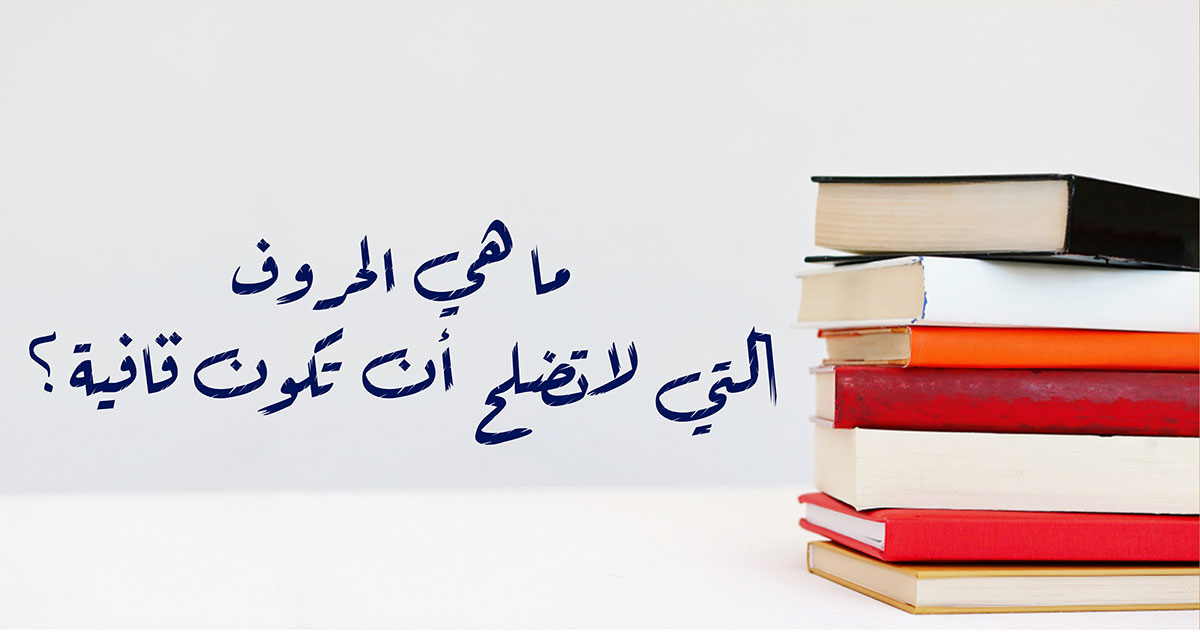
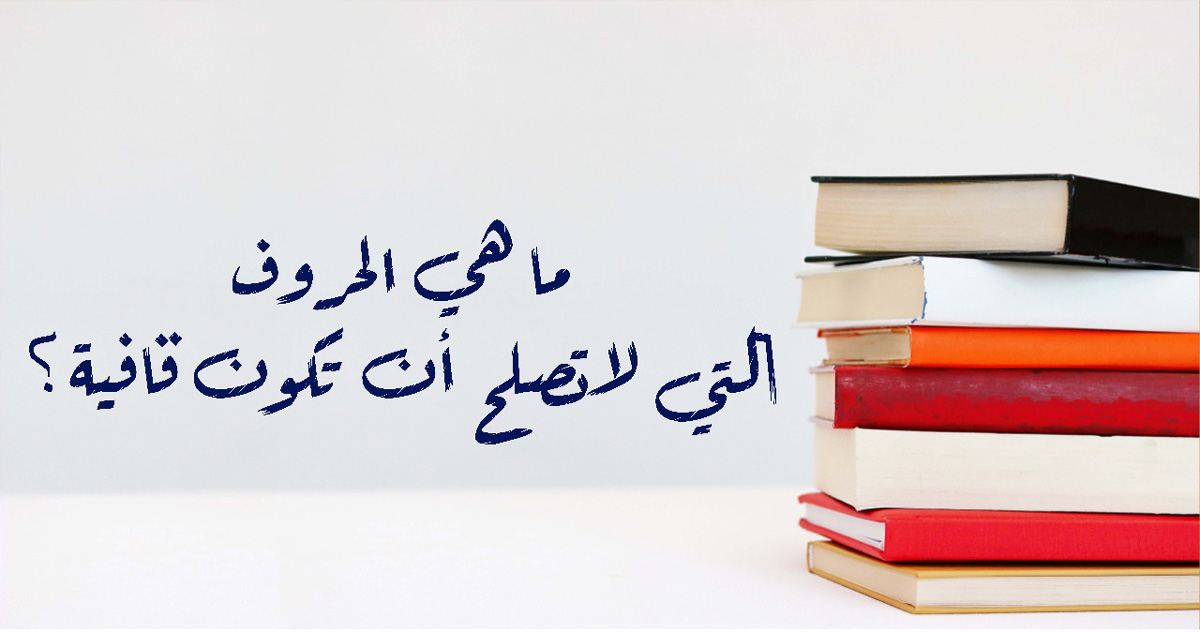
Last finish

diff --git a/css/style.css b/css/style.css
@@ -1,1 +1,1 @@
-@font-face{font-family:"tharwat";src:url("../assets/fonts/textFonts/THARWATEMARARUQAA.ttf")}@font-face{font-family:"tharwat2";src:url("../assets/fonts/textFonts/THARWATEMARARUQAALIGHT2.ttf")}@font-face{font-family:"verdana";src:url("../assets/fonts/textFonts/29LTZARIDSLABMEDIUM.TTF")}body{font-family:"verdana",sans-serif;direction:rtl}.wrap-fullpage{overflow:hidden}.ff-tharwat{font-family:"tharwat2"}.rounded-12px{border-radius:12px}.border-gray{border-color:#c3c3c3 !important}.adver-box{overflow:hidden;width:100%;display:block;border-color:#c3c3c3 !important}.adver-box.side-adv{max-height:850px}.search-box{min-height:280px;display:-webkit-box;display:-ms-flexbox;display:flex;-webkit-box-align:center;-ms-flex-align:center;align-items:center;-webkit-box-pack:center;-ms-flex-pack:center;justify-content:center;-webkit-box-orient:vertical;-webkit-box-direction:normal;-ms-flex-direction:column;flex-direction:column;border-color:#c3c3c3 !important}.search-box h1{font-family:"tharwat2";font-size:45px}.search-box .input-group{max-width:700px}.search-box .form-wrap{max-width:70%}.search-box .form-wrap input,.search-box .form-wrap select{border-color:#c3c3c3 !important;font-size:18px}.search-box .form-wrap input::-webkit-input-placeholder, .search-box .form-wrap select::-webkit-input-placeholder{font-size:18px;color:#898f9c}.search-box .form-wrap input::-moz-placeholder, .search-box .form-wrap select::-moz-placeholder{font-size:18px;color:#898f9c}.search-box .form-wrap input:-ms-input-placeholder, .search-box .form-wrap select:-ms-input-placeholder{font-size:18px;color:#898f9c}.search-box .form-wrap input::-ms-input-placeholder, .search-box .form-wrap select::-ms-input-placeholder{font-size:18px;color:#898f9c}.search-box .form-wrap input::placeholder,.search-box .form-wrap select::placeholder{font-size:18px;color:#898f9c}.search-box .form-wrap #searchTypeSelect{width:270px}.search-box .form-wrap .numInput{width:55px;text-align:center}.navbar .navbar-brand{color:#f5f5f5;font-family:"tharwat";font-size:60px}.navbar .nav-item .nav-link{color:#f5f5f5 !important;font-size:26px;padding:.5rem 2rem;font-weight:500}.navbar .nav-item .nav-link.active,.navbar .nav-item .nav-link:hover{background-color:#7e7e7e}.body-content{gap:1.25rem;display:grid}.body-content .buttons-list .btn{font-weight:bold}.body-content .buttons-list .btn:hover{background-color:#7e7e7e}.body-content .comment-wrap{border:1px solid #c3c3c3}.body-content .comment-wrap .comment-header{background-color:#ebebeb;border-bottom:1px solid #c3c3c3}.body-content .comment-wrap .comment-header img{margin-top:5px}.body-content .comment-wrap .comment-content textarea,.body-content .comment-wrap .comment-content input{font-size:20px}.body-content .comment-wrap .comment-content textarea::-webkit-input-placeholder, .body-content .comment-wrap .comment-content input::-webkit-input-placeholder{color:#898f9c;font-size:20px}.body-content .comment-wrap .comment-content textarea::-moz-placeholder, .body-content .comment-wrap .comment-content input::-moz-placeholder{color:#898f9c;font-size:20px}.body-content .comment-wrap .comment-content textarea:-ms-input-placeholder, .body-content .comment-wrap .comment-content input:-ms-input-placeholder{color:#898f9c;font-size:20px}.body-content .comment-wrap .comment-content textarea::-ms-input-placeholder, .body-content .comment-wrap .comment-content input::-ms-input-placeholder{color:#898f9c;font-size:20px}.body-content .comment-wrap .comment-content textarea::placeholder,.body-content .comment-wrap .comment-content input::placeholder{color:#898f9c;font-size:20px}.body-content .comment-wrap .comment-content #username_comment{width:250px}.body-content .comment-wrap .comment-content textarea{height:250px;resize:none}.body-content .comment-wrap .comment-content.comments-list .comment-item{margin-bottom:0.625rem;padding-bottom:0.625rem;border-bottom:1px solid #dedede}.body-content .comment-wrap .comment-content.comments-list .comment-item p{line-height:24px}.body-content .comment-wrap .comment-content.comments-list .comment-item:last-child{margin-bottom:0;padding-bottom:0;border-bottom-width:0}.body-content .comment-wrap .btn:hover{color:#fff;background-color:#7e7e7e}.body-content .w-400{width:400px}.body-content .addword-wrap{border:1px solid #c3c3c3}.body-content .addword-wrap .style-input,.body-content .addword-wrap button{font-size:18px}.body-content .addword-wrap .style-input{border-color:#c3c3c3 !important}.body-content .addword-wrap .style-input::-webkit-input-placeholder{font-size:18px;color:#898f9c}.body-content .addword-wrap .style-input::-moz-placeholder{font-size:18px;color:#898f9c}.body-content .addword-wrap .style-input:-ms-input-placeholder{font-size:18px;color:#898f9c}.body-content .addword-wrap .style-input::-ms-input-placeholder{font-size:18px;color:#898f9c}.body-content .addword-wrap .style-input::placeholder{font-size:18px;color:#898f9c}.body-content .addword-wrap #addmeaninginput{resize:none}.body-content .today-wisedom{border:1px solid #c3c3c3}.body-content .today-wisedom .wisedom-content{height:200px}.body-content .today-wisedom .wisedom-content blockquote{max-height:130px;overflow-y:auto}.body-content .bestwords,.body-content .beforelast-wrod{height:-webkit-fit-content;height:-moz-fit-content;height:fit-content;border:1px solid #c3c3c3}.body-content .bestwords .bestword-content{display:grid;gap:.5rem;grid-auto-rows:-webkit-min-content;grid-auto-rows:min-content;overflow-y:auto}.body-content .bestwords .bestword-content .preloader-filter{height:100%;min-height:748px}.body-content .bestwords .bestword-content .word-badge{height:-webkit-fit-content;height:-moz-fit-content;height:fit-content;background-color:#ebebeb;cursor:pointer;-webkit-transition:.2s;-o-transition:.2s;transition:.2s}.body-content .bestwords .bestword-content .word-badge:hover,.body-content .bestwords .bestword-content .word-badge.selected{background-color:#bad6d8}.body-content .beforelast-wrod .beforelast-wrod-content{display:grid;grid-template-columns:repeat(6, 1fr);gap:.5rem}.body-content .beforelast-wrod .beforelast-wrod-content .letter-badge{background-color:#dfe3ee;color:#898f9c;font-family:"tharwat2";font-size:28px;font-weight:bolder;cursor:pointer;-webkit-transition:0.2s;-o-transition:0.2s;transition:0.2s;padding-left:0;padding-right:0;border:1px solid #c3c3c3}.body-content .beforelast-wrod .beforelast-wrod-content .letter-badge .underline-letter{display:block;margin-top:-6px}.body-content .beforelast-wrod .beforelast-wrod-content .letter-badge:hover{background-color:#d8ddea}.body-content .meaning-article{margin-bottom:1.25rem}.body-content .meaning-article .fs-21px{font-size:21px}.body-content .meaning-article:last-child{margin-bottom:0}.contactus-wrap{background-color:#f2f2f6;max-width:850px}.contactus-wrap .title{margin-top:-6px}.contactus-wrap .contactus-form input,.contactus-wrap .contactus-form textarea,.contactus-wrap .contactus-form select{font-size:27px}.contactus-wrap .contactus-form input::-webkit-input-placeholder, .contactus-wrap .contactus-form textarea::-webkit-input-placeholder, .contactus-wrap .contactus-form select::-webkit-input-placeholder{color:#898f9c;font-size:27px}.contactus-wrap .contactus-form input::-moz-placeholder, .contactus-wrap .contactus-form textarea::-moz-placeholder, .contactus-wrap .contactus-form select::-moz-placeholder{color:#898f9c;font-size:27px}.contactus-wrap .contactus-form input:-ms-input-placeholder, .contactus-wrap .contactus-form textarea:-ms-input-placeholder, .contactus-wrap .contactus-form select:-ms-input-placeholder{color:#898f9c;font-size:27px}.contactus-wrap .contactus-form input::-ms-input-placeholder, .contactus-wrap .contactus-form textarea::-ms-input-placeholder, .contactus-wrap .contactus-form select::-ms-input-placeholder{color:#898f9c;font-size:27px}.contactus-wrap .contactus-form input::placeholder,.contactus-wrap .contactus-form textarea::placeholder,.contactus-wrap .contactus-form select::placeholder{color:#898f9c;font-size:27px}.contactus-wrap .contactus-form textarea{resize:none;height:350px}.contactus-wrap .contactus-form button{font-size:40px}.aboutus-section .box-1{height:400px;max-width:1000px}.aboutus-section .box-2{height:700px}.bestArticles .article-item{margin-bottom:.5rem}.bestArticles .article-item:last-child{margin-bottom:0}.bestArticles .article-item .article-thumimg{overflow:hidden;border-radius:12px}.bestArticles .article-item .article-thumimg img{width:100%;height:100%;-webkit-transition:1s;-o-transition:1s;transition:1s}.bestArticles .article-item:hover img{-webkit-transform:scale(1.2) rotate(2deg);-ms-transform:scale(1.2) rotate(2deg);transform:scale(1.2) rotate(2deg)}.bestArticles .article-item .morebtn:hover{background-color:#7e7e7e}.article p{text-align:justify}.article .article-img-cover{width:100%}footer{overflow:hidden}footer p.logo-text{font-family:"tharwat";font-size:60px}@media(min-width: 1920px){.bestArticles .article-thumimg{width:425px;height:385px}}@media(max-width: 1920px){.bestArticles .article-thumimg{width:325px;height:285px}}@media(min-width: 992px)and (max-width: 1410px){.bestArticles .article-wraper{-webkit-box-orient:vertical;-webkit-box-direction:normal;-ms-flex-direction:column;flex-direction:column}.bestArticles .article-wraper .article-thumimg{width:100%;height:285px}.bestword-content{height:453px !important}.comment-wrap{margin-top:-295px}}@media(min-width: 1410px){.buttons-list .btn{font-size:28px !important}.bestword-content{height:438px !important}.comment-wrap{margin-top:-293px}}@media(max-width: 992px){.words-box{-webkit-box-orient:vertical;-webkit-box-direction:normal;-ms-flex-direction:column;flex-direction:column}.words-box .beforelast-wrod{width:100%;-ms-flex-negative:1;flex-shrink:1}.body-content .w-400{width:100%}.body-content .bestword-content{height:453px}.bestArticles .article-thumimg{width:225px;height:185px}}@media(min-width: 768px)and (max-width: 992px){.body-content .sidebar{display:-webkit-box;display:-ms-flexbox;display:flex;gap:1.25rem}.body-content .sidebar .today-wisedom{-webkit-box-flex:1;-ms-flex-positive:1;flex-grow:1}.body-content .sidebar .adver-box.side-adv{width:40%}}@media(min-width: 768px){.navbar .nav-item .nav-link{margin-left:20px}.navbar .nav-item:last-child .nav-link{margin-left:0}}@media(min-width: 576px){.bestwords .bestword-content{grid-template-columns:repeat(auto-fill, minmax(150px, 1fr))}}@media(max-width: 576px){.navbar-brand,.ff-tharwat,footer .logo-text{position:relative}.navbar-brand,footer .logo-text{top:12px}.ff-tharwat{top:8px}.search-box .input-group .input-search::-webkit-input-placeholder{font-size:16px !important}.search-box .input-group .input-search::-moz-placeholder{font-size:16px !important}.search-box .input-group .input-search:-ms-input-placeholder{font-size:16px !important}.search-box .input-group .input-search::-ms-input-placeholder{font-size:16px !important}.search-box .input-group .input-search::placeholder{font-size:16px !important}.body-content .buttons-list .btn{font-size:16px}.body-content .bestwords .bestword-content{grid-template-columns:repeat(auto-fill, minmax(135px, 1fr))}.bestArticles .article-wraper{-webkit-box-orient:vertical;-webkit-box-direction:normal;-ms-flex-direction:column;flex-direction:column}.bestArticles .article-wraper .article-thumimg{width:100%;height:285px}}@media(max-width: 768px){.navbar .nav-item .nav-link{margin-bottom:10px}.navbar .nav-item:last-child .nav-link{margin-bottom:0}.article-img-cover{height:300px !important}.search-box #searchTypeSelect{width:100% !important}.search-box .search-btn{width:100%}}
+@font-face{font-family:"tharwat";src:url("../assets/fonts/textFonts/THARWATEMARARUQAA.ttf")}@font-face{font-family:"tharwat2";src:url("../assets/fonts/textFonts/THARWATEMARARUQAALIGHT2.ttf")}@font-face{font-family:"verdana";src:url("../assets/fonts/textFonts/29LTZARIDSLABMEDIUM.TTF")}body{font-family:"verdana",sans-serif;direction:rtl}.wrap-fullpage{overflow:hidden}.ff-tharwat{font-family:"tharwat2"}.rounded-12px{border-radius:12px}.border-gray{border-color:#c3c3c3 !important}.adver-box{overflow:hidden;width:100%;display:block;border-color:#c3c3c3 !important}.adver-box.side-adv{max-height:850px}.search-box{min-height:280px;display:-webkit-box;display:-ms-flexbox;display:flex;-webkit-box-align:center;-ms-flex-align:center;align-items:center;-webkit-box-pack:center;-ms-flex-pack:center;justify-content:center;-webkit-box-orient:vertical;-webkit-box-direction:normal;-ms-flex-direction:column;flex-direction:column;border-color:#c3c3c3 !important}.search-box h1{font-family:"tharwat2";font-size:45px}.search-box .input-group{max-width:700px}.search-box .form-wrap{max-width:70%}.search-box .form-wrap input,.search-box .form-wrap select{border-color:#c3c3c3 !important;font-size:18px}.search-box .form-wrap input::-webkit-input-placeholder, .search-box .form-wrap select::-webkit-input-placeholder{font-size:18px;color:#898f9c}.search-box .form-wrap input::-moz-placeholder, .search-box .form-wrap select::-moz-placeholder{font-size:18px;color:#898f9c}.search-box .form-wrap input:-ms-input-placeholder, .search-box .form-wrap select:-ms-input-placeholder{font-size:18px;color:#898f9c}.search-box .form-wrap input::-ms-input-placeholder, .search-box .form-wrap select::-ms-input-placeholder{font-size:18px;color:#898f9c}.search-box .form-wrap input::placeholder,.search-box .form-wrap select::placeholder{font-size:18px;color:#898f9c}.search-box .form-wrap #searchTypeSelect{width:270px}.search-box .form-wrap .numInput{width:55px;text-align:center}.navbar .navbar-brand{color:#f5f5f5;font-family:"tharwat";font-size:60px}.navbar .nav-item .nav-link{color:#f5f5f5 !important;font-size:26px;padding:.5rem 2rem;font-weight:500}.navbar .nav-item .nav-link.active,.navbar .nav-item .nav-link:hover{background-color:#7e7e7e}.body-content{gap:1.25rem;display:grid}.body-content .buttons-list .btn{font-weight:bold}.body-content .buttons-list .btn:hover{background-color:#7e7e7e}.body-content .comment-wrap{border:1px solid #c3c3c3}.body-content .comment-wrap .comment-header{background-color:#ebebeb;border-bottom:1px solid #c3c3c3}.body-content .comment-wrap .comment-header img{margin-top:5px}.body-content .comment-wrap .comment-content textarea,.body-content .comment-wrap .comment-content input{font-size:20px}.body-content .comment-wrap .comment-content textarea::-webkit-input-placeholder, .body-content .comment-wrap .comment-content input::-webkit-input-placeholder{color:#898f9c;font-size:20px}.body-content .comment-wrap .comment-content textarea::-moz-placeholder, .body-content .comment-wrap .comment-content input::-moz-placeholder{color:#898f9c;font-size:20px}.body-content .comment-wrap .comment-content textarea:-ms-input-placeholder, .body-content .comment-wrap .comment-content input:-ms-input-placeholder{color:#898f9c;font-size:20px}.body-content .comment-wrap .comment-content textarea::-ms-input-placeholder, .body-content .comment-wrap .comment-content input::-ms-input-placeholder{color:#898f9c;font-size:20px}.body-content .comment-wrap .comment-content textarea::placeholder,.body-content .comment-wrap .comment-content input::placeholder{color:#898f9c;font-size:20px}.body-content .comment-wrap .comment-content #username_comment{width:250px}.body-content .comment-wrap .comment-content textarea{height:250px;resize:none}.body-content .comment-wrap .comment-content.comments-list .comment-item{margin-bottom:0.625rem;padding-bottom:0.625rem;border-bottom:1px solid #dedede}.body-content .comment-wrap .comment-content.comments-list .comment-item p{line-height:24px}.body-content .comment-wrap .comment-content.comments-list .comment-item:last-child{margin-bottom:0;padding-bottom:0;border-bottom-width:0}.body-content .comment-wrap .btn:hover{color:#fff;background-color:#7e7e7e}.body-content .w-400{width:400px}.body-content .addword-wrap{border:1px solid #c3c3c3}.body-content .addword-wrap .style-input,.body-content .addword-wrap button{font-size:18px}.body-content .addword-wrap .style-input{border-color:#c3c3c3 !important}.body-content .addword-wrap .style-input::-webkit-input-placeholder{font-size:18px;color:#898f9c}.body-content .addword-wrap .style-input::-moz-placeholder{font-size:18px;color:#898f9c}.body-content .addword-wrap .style-input:-ms-input-placeholder{font-size:18px;color:#898f9c}.body-content .addword-wrap .style-input::-ms-input-placeholder{font-size:18px;color:#898f9c}.body-content .addword-wrap .style-input::placeholder{font-size:18px;color:#898f9c}.body-content .addword-wrap #addmeaninginput{resize:none}.body-content .today-wisedom{border:1px solid #c3c3c3}.body-content .today-wisedom .wisedom-content{height:200px}.body-content .today-wisedom .wisedom-content blockquote{max-height:130px;overflow-y:auto}.body-content .bestwords,.body-content .beforelast-wrod{height:-webkit-fit-content;height:-moz-fit-content;height:fit-content;border:1px solid #c3c3c3}.body-content .bestwords .bestword-content{display:grid;gap:.5rem;grid-auto-rows:-webkit-min-content;grid-auto-rows:min-content;overflow-y:auto}.body-content .bestwords .bestword-content .preloader-filter{height:100%;min-height:748px}.body-content .bestwords .bestword-content .word-badge{height:-webkit-fit-content;height:-moz-fit-content;height:fit-content;background-color:#ebebeb;cursor:pointer;-webkit-transition:.2s;-o-transition:.2s;transition:.2s}.body-content .bestwords .bestword-content .word-badge:hover,.body-content .bestwords .bestword-content .word-badge.selected{background-color:#bad6d8}.body-content .beforelast-wrod .beforelast-wrod-content{display:grid;grid-template-columns:repeat(6, 1fr);gap:.5rem}.body-content .beforelast-wrod .beforelast-wrod-content .letter-badge{background-color:#dfe3ee;color:#898f9c;font-family:"tharwat2";font-size:28px;font-weight:bolder;cursor:pointer;-webkit-transition:0.2s;-o-transition:0.2s;transition:0.2s;padding-left:0;padding-right:0;border:1px solid #c3c3c3}.body-content .beforelast-wrod .beforelast-wrod-content .letter-badge .underline-letter{display:block;margin-top:-6px}.body-content .beforelast-wrod .beforelast-wrod-content .letter-badge:hover{background-color:#d8ddea}.body-content .meaning-article{margin-bottom:1.25rem}.body-content .meaning-article .fs-21px{font-size:21px}.body-content .meaning-article:last-child{margin-bottom:0}.contactus-wrap{background-color:#f2f2f6;max-width:850px}.contactus-wrap .title{margin-top:-6px}.contactus-wrap .contactus-form input,.contactus-wrap .contactus-form textarea,.contactus-wrap .contactus-form select{font-size:27px}.contactus-wrap .contactus-form input::-webkit-input-placeholder, .contactus-wrap .contactus-form textarea::-webkit-input-placeholder, .contactus-wrap .contactus-form select::-webkit-input-placeholder{color:#898f9c;font-size:27px}.contactus-wrap .contactus-form input::-moz-placeholder, .contactus-wrap .contactus-form textarea::-moz-placeholder, .contactus-wrap .contactus-form select::-moz-placeholder{color:#898f9c;font-size:27px}.contactus-wrap .contactus-form input:-ms-input-placeholder, .contactus-wrap .contactus-form textarea:-ms-input-placeholder, .contactus-wrap .contactus-form select:-ms-input-placeholder{color:#898f9c;font-size:27px}.contactus-wrap .contactus-form input::-ms-input-placeholder, .contactus-wrap .contactus-form textarea::-ms-input-placeholder, .contactus-wrap .contactus-form select::-ms-input-placeholder{color:#898f9c;font-size:27px}.contactus-wrap .contactus-form input::placeholder,.contactus-wrap .contactus-form textarea::placeholder,.contactus-wrap .contactus-form select::placeholder{color:#898f9c;font-size:27px}.contactus-wrap .contactus-form textarea{resize:none;height:350px}.contactus-wrap .contactus-form button{font-size:40px}.aboutus-section .box-1{height:400px;max-width:1000px}.aboutus-section .box-2{height:700px}.bestArticles .article-item{margin-bottom:.5rem}.bestArticles .article-item:last-child{margin-bottom:0}.bestArticles .article-item .article-thumimg{overflow:hidden;border-radius:12px}.bestArticles .article-item .article-thumimg img{width:100%;height:100%;-webkit-transition:1s;-o-transition:1s;transition:1s}.bestArticles .article-item:hover img{-webkit-transform:scale(1.2) rotate(2deg);-ms-transform:scale(1.2) rotate(2deg);transform:scale(1.2) rotate(2deg)}.bestArticles .article-item .morebtn:hover{background-color:#7e7e7e}.article p{text-align:justify}.article .article-img-cover{width:100%}footer{overflow:hidden}footer p.logo-text{font-family:"tharwat";font-size:60px}@media(min-width: 1920px){.bestArticles .article-thumimg{width:425px;height:385px}}@media(max-width: 1920px){.bestArticles .article-thumimg{width:325px;height:285px}}@media(min-width: 992px)and (max-width: 1410px){.bestArticles .article-wraper{-webkit-box-orient:vertical;-webkit-box-direction:normal;-ms-flex-direction:column;flex-direction:column}.bestArticles .article-wraper .article-thumimg{width:100%;height:285px}.bestword-content{height:453px !important}.comment-wrap.mr-negative{margin-top:-295px}}@media(min-width: 1410px){.buttons-list .btn{font-size:28px !important}.bestword-content{height:438px !important}.comment-wrap.mr-negative{margin-top:-293px}}@media(max-width: 992px){.words-box{-webkit-box-orient:vertical;-webkit-box-direction:normal;-ms-flex-direction:column;flex-direction:column}.words-box .beforelast-wrod{width:100%;-ms-flex-negative:1;flex-shrink:1}.body-content .w-400{width:100%}.body-content .bestword-content{height:453px}.bestArticles .article-thumimg{width:225px;height:185px}}@media(min-width: 768px)and (max-width: 992px){.body-content .sidebar{display:-webkit-box;display:-ms-flexbox;display:flex;gap:1.25rem}.body-content .sidebar .today-wisedom{-webkit-box-flex:1;-ms-flex-positive:1;flex-grow:1}.body-content .sidebar .adver-box.side-adv{width:40%}}@media(min-width: 768px){.navbar .nav-item .nav-link{margin-left:20px}.navbar .nav-item:last-child .nav-link{margin-left:0}}@media(min-width: 576px){.bestwords .bestword-content{grid-template-columns:repeat(auto-fill, minmax(150px, 1fr))}}@media(max-width: 576px){.navbar-brand,.ff-tharwat,footer .logo-text{position:relative}.navbar-brand,footer .logo-text{top:12px}.ff-tharwat{top:8px}.search-box .input-group .input-search::-webkit-input-placeholder{font-size:16px !important}.search-box .input-group .input-search::-moz-placeholder{font-size:16px !important}.search-box .input-group .input-search:-ms-input-placeholder{font-size:16px !important}.search-box .input-group .input-search::-ms-input-placeholder{font-size:16px !important}.search-box .input-group .input-search::placeholder{font-size:16px !important}.body-content .buttons-list .btn{font-size:16px}.body-content .bestwords .bestword-content{grid-template-columns:repeat(auto-fill, minmax(135px, 1fr))}.bestArticles .article-wraper{-webkit-box-orient:vertical;-webkit-box-direction:normal;-ms-flex-direction:column;flex-direction:column}.bestArticles .article-wraper .article-thumimg{width:100%;height:285px}}@media(max-width: 768px){.navbar .nav-item .nav-link{margin-bottom:10px}.navbar .nav-item:last-child .nav-link{margin-bottom:0}.article-img-cover{height:300px !important}.search-box #searchTypeSelect{width:100% !important}.search-box .search-btn{width:100%}}

diff --git a/views/word.html b/views/word.html
@@ -153,6 +153,35 @@
                     </div>
 
                     <div class="col-lg-auto">
+
+                        <!-- Add Word -->
+                        <div class="addword-wrap bg-light-gray rounded-12px overflow-hidden w-400 mb-5">
+                            <div class="addword-content p-5">
+                                <form id="addqafia-form" class="position-relative">
+                                    <div
+                                        class="formqafia-loader position-absolute top-0 start-0 opacity-75 w-100 h-100 bg-light-gray text-center">
+                                        <img src="../assets/img/global/filterLoader.svg" width="100" class="mt-2"
+                                            alt="loader">
+                                        <h5>جارى اضافة القافية...</h5>
+                                    </div>
+                                    <div class="row g-2 mb-2">
+                                        <div class="col-6 ">
+                                            <input type="text"
+                                                class="form-control py-2 text-primary bg-white style-input input-addword"
+                                                placeholder="قم بإضافة فافية">
+                                        </div>
+                                        <div class="col">
+                                            <button type="submit" class="btn btn-dark py-2 px-4">إضافة</button>
+                                        </div>
+                                    </div>
+                                    <div>
+                                        <textarea class="form-control bg-white text-primary style-input"
+                                            placeholder="إضافة معني للقافية (إختياري / لا يزيد عن سطرين)"
+                                            id="addmeaninginput" rows="4"></textarea>
+                                    </div>
+                                </form>
+                            </div>
+                        </div>
                         <!-- Wis -->
                         <div class="today-wisedom bg-light-gray rounded-12px overflow-hidden w-400 mb-5">
                             <article class="wisedeom-header text-center text-white p-5 bg-primary ">
@@ -179,16 +208,22 @@
 
                 <div class="row g-5">
                     <div class="col-lg ">
-
                         <!-- Send Comment -->
                         <div class="comment-wrap bg-light-gray rounded-12px  overflow-hidden">
                             <article class="comment-header text-dark p-5  d-flex gap-3 align-items-center">
                                 <img src="../assets/img/icons/comment-outline.svg" width="35" alt="comment">
                                 <h4 class="mb-0 fw-bold">شاركنا بتعليقاتك ومقترحاتك</h4>
                             </article>
-                            <form class="comment-content p-5">
-                                <textarea name="comment" class="form-control bg-white text-dark"
-                                    placeholder="اكتب تعليقك هنا..."></textarea>
+                            <form class="comment-content addcommentform p-5 position-relative">
+                                <div
+                                    class="formcomment-loader position-absolute top-0 start-0 opacity-50 w-100 h-100 bg-light-gray text-center">
+                                    <img src="../assets/img/global/filterLoader.svg" class="mt-2" alt="loader">
+                                    <h5>جارى اضافة التعليق...</h5>
+                                </div>
+                                <input type="text" id="username_comment" class="form-control bg-white text-dark mb-2"
+                                    placeholder="إسم المستخدم">
+                                <textarea id="commentbody_comment" class="form-control bg-white text-dark"
+                                    placeholder="اكتب تعليقاً هنا..."></textarea>
                                 <button class="btn btn-primary mt-5 px-6 display-omd rounded-12px"
                                     type="submit">تعليق</button>
                             </form>
@@ -199,52 +234,16 @@
                                 <img src="../assets/img/icons/comment-solid.svg" width="35" alt="comment">
                                 <h4 class="mb-0 fw-bold"> تعليقات الزوار </h4>
                             </article>
-                            <ul class="comment-content comments-list mb-0 list-unstyled p-5">
-                                <li class="comment-item d-flex gap-3 flex-xx-row flex-column">
-                                    <div class="flex-shrink-0">
-                                        <img src="../assets/img/icons/user.svg" width="75" alt="user">
-                                    </div>
-                                    <article class="flex-grow-1 bg-white p-3 rounded-12px">
-                                        <h5 class="text-primary fw-bold mb-0">اسم المستخدم</h5>
-                                        <p class="mb-0 display-omd mt-2">هذا نص تجريبي يمكنك استبداله بنص أخر هذا نص
-                                            تجريبي يمكنك
-                                            استبداله
-                                            بنص أخر
-                                        </p>
-                                    </article>
-                                </li>
-                                <li class="comment-item d-flex gap-3 flex-xx-row flex-column">
-                                    <div class="flex-shrink-0">
-                                        <img src="../assets/img/icons/user.svg" width="75" alt="user">
-                                    </div>
-                                    <article class="flex-grow-1 bg-white p-3 rounded-12px">
-                                        <h5 class="text-primary fw-bold mb-0">اسم المستخدم</h5>
-                                        <p class="mb-0 display-omd mt-2">هذا نص تجريبي يمكنك استبداله بنص أخر هذا نص
-                                            تجريبي يمكنك
-                                            استبداله
-                                            بنص أخر
-                                        </p>
-                                    </article>
-                                </li>
-                                <li class="comment-item d-flex gap-3 flex-xx-row flex-column">
-                                    <div class="flex-shrink-0">
-                                        <img src="../assets/img/icons/user.svg" width="75" alt="user">
-                                    </div>
-                                    <article class="flex-grow-1 bg-white p-3 rounded-12px">
-                                        <h5 class="text-primary fw-bold mb-0">اسم المستخدم</h5>
-                                        <p class="mb-0 display-omd mt-2">هذا نص تجريبي يمكنك استبداله بنص أخر هذا نص
-                                            تجريبي يمكنك
-                                            استبداله
-                                            بنص أخر
-                                        </p>
-                                    </article>
-                                </li>
-                                <!-- See more -->
-                                <li class="text-center mt-5">
-                                    <button class="btn btn-link display-omd fw-bold" type="button">المزيد من التعليقات
-                                    </button>
-                                </li>
+                            <ul class="comment-content comments-list mb-0 position-relative list-unstyled p-5">
+
                             </ul>
+                            <!-- See more -->
+                            <div class="text-center mb-5 seemorecomment-btn">
+                                <button class="btn btn-link display-omd fw-bold " type="button">
+                                    المزيد من التعليقات
+                                    <i class="fas fa-spinner fa-spin-pulse ms-1 align-middle"></i>
+                                </button>
+                            </div>
                         </div>
                     </div>
 

diff --git a/views/articles.html b/views/articles.html
@@ -181,18 +181,18 @@
                             <i class="fas fa-arrow-right d-xx-none"></i>
                         </span>
                     </li>
-                    <li class="page-item"><a class="page-link" href="#">1</a></li>
-                    <li class="page-item active">
+                    <li class="page-item active"><span class="page-link ">1</span></li>
+                    <!-- <li class="page-item active">
                         <span class="page-link">2</span>
                     </li>
                     <li class="page-item"><a class="page-link" href="#">3</a></li>
                     <li class="page-item"><a class="page-link" href="#">...</a></li>
-                    <li class="page-item"><a class="page-link" href="#">10</a></li>
-                    <li class="page-item">
-                        <a class="page-link fw-bold" href="#">
+                    <li class="page-item"><a class="page-link" href="#">10</a></li> -->
+                    <li class="page-item disabled">
+                        <span class="page-link">
                             <span class="d-xx-block d-none">التالى</span>
-                            <i class="fas fa-arrow-left  d-xx-none"></i>
-                        </a>
+                            <i class="fas fa-arrow-left d-xx-none"></i>
+                        </span>
                     </li>
                 </ul>
 

diff --git a/views/index.html b/views/index.html
@@ -231,7 +231,7 @@
           <div class="col-lg ">
 
             <!-- Send Comment -->
-            <div class="comment-wrap bg-light-gray rounded-12px  overflow-hidden">
+            <div class="comment-wrap mr-negative bg-light-gray rounded-12px  overflow-hidden">
               <article class="comment-header text-dark p-5  d-flex gap-3 align-items-center">
                 <img src="../assets/img/icons/comment-outline.svg" width="35" alt="comment">
                 <h4 class="mb-0 fw-bold">شاركنا بتعليقاتك ومقترحاتك</h4>

diff --git a/js/app.js b/js/app.js
@@ -746,8 +746,6 @@ $(function () {
         URL += `&meaning=${qafiameanValue}`;
       }
 
-      console.log(URL);
-
       qafiaLoader.show();
       axios
         .post(URL)
